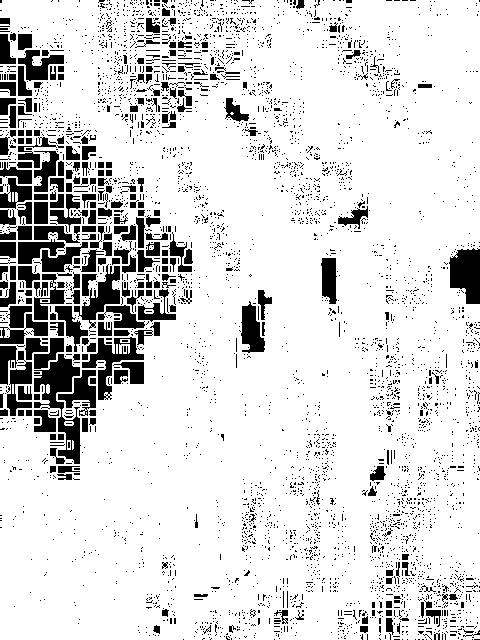
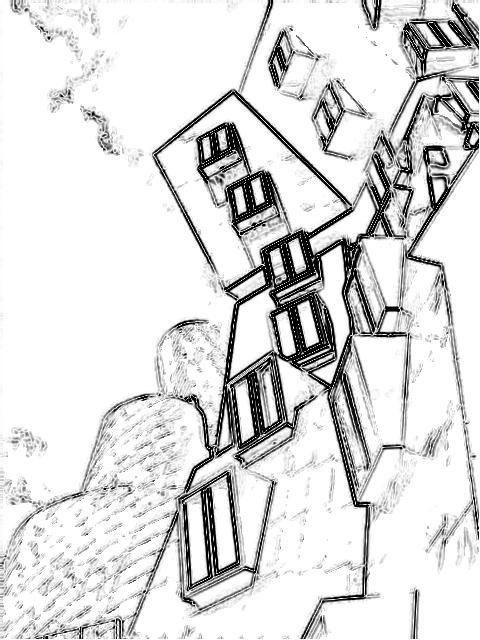
laplacian method after lots of experimentation

diff --git a/src/edge_detection_laplacian.py b/src/edge_detection_laplacian.py
@@ -1,26 +1,20 @@
 """
 Edge detection using the laplacian method.
-TODO(mikemeko): add a noise reduction system prior to edge detection.
 """
 
 __author__ = 'mikemeko@mit.edu (Michael Mekonnen)'
 
-from constants import EPSILON
+from constants import GAUSSIAN_FILTER
 from constants import LAPLACIAN_FILTER
 from image_two_D_signal_conversion import image_to_two_D_signal
 from image_two_D_signal_conversion import two_D_signal_to_image
 from os.path import join
+from scipy.stats import scoreatpercentile
+from two_D_signal_stats import var_signal
 from two_D_convolution import clipped_fft_convolve
-from two_D_signal import Two_D_Signal
+from util import invert
 from util import strip_dir
 from util import strip_file_name
-
-def compute_laplacian(signal):
-  """
-  Computes (approximately) the laplacian of the given |signal|.
-  """
-  assert isinstance(signal, Two_D_Signal), 'signal must be a Two_D_Signal'
-  return clipped_fft_convolve(signal, LAPLACIAN_FILTER)
 
 def detect_edges_laplacian(image_path):
   """
@@ -30,13 +24,29 @@ def detect_edges_laplacian(image_path):
   """
   print '\tcomputing 2D signal from image path'
   signal = image_to_two_D_signal(image_path)
+  print '\tblurring image'
+  blurred = clipped_fft_convolve(signal, GAUSSIAN_FILTER)
   print '\tcomputing laplacian'
-  laplacian = compute_laplacian(signal)
-  print '\tcomputing zero crossings'
-  zero_crossings = Two_D_Signal({key: 255 * (abs(laplacian[key]) < EPSILON) for
-      key in laplacian.values})
+  laplacian = clipped_fft_convolve(blurred, LAPLACIAN_FILTER)
+  print '\tcomputing abs'
+  abs_laplacian = abs(laplacian)
+  print '\tfinding cutoff abs: 95th percentile abs'
+  cutoff_abs = scoreatpercentile(abs_laplacian.non_zero_values(), 95)
+  print '\tscaling abs image by 255 / cutoff abs'
+  scaled = (255 / cutoff_abs) * abs_laplacian
+  print '\tinverting scaled image'
+  inverted = invert(scaled, 255)
+  print '\tcomputing variance'
+  var = var_signal(blurred, 2)
+  print '\tfinding cutoff variance'
+  cutoff_var = scoreatpercentile(var.non_zero_values(), 60)
+  print '\tupdating result image with cutoff variance'
+  for n1 in xrange(inverted.n1_min, inverted.n1_max + 1):
+    for n2 in xrange(inverted.n2_min, inverted.n2_max + 1):
+      if var[n1, n2] < cutoff_var:
+        inverted.set_value(n1, n2, 255)
   print '\tsaving result image'
   new_image_path = join(strip_dir(image_path), '%s_laplacian_edges.%s' % tuple(
       strip_file_name(image_path).split('.')))
-  two_D_signal_to_image(zero_crossings, new_image_path)
+  two_D_signal_to_image(inverted, new_image_path)
   print '\tdone'

diff --git a/src/util.py b/src/util.py
@@ -7,6 +7,57 @@ __author__ = 'mikemeko@mit.edu (Michael Mekonnen)'
 from os.path import isdir
 from os.path import isfile
 from os.path import split
+from two_D_signal import Two_D_Signal
+
+def padded_signal(signal, n1_pad, n2_pad):
+  """
+  Returns a Two_D_Signal by repeating the edge values of |signal| by |n1_pad|
+      values in the n1 directions and |n2_pad| in the n2 directions.
+  """
+  # input signal: X
+  #                ABC
+  # output signal: DXE
+  #                FGH
+  assert isinstance(signal, Two_D_Signal), 'signal must be a Two_D_Signal'
+  new_values = signal.values.copy()
+  for n1 in xrange(signal.n1_min, signal.n1_max + 1):
+    for n2_p in xrange(1, n2_pad + 1):
+      new_values[(n1, signal.n2_min - n2_p)] = signal[n1, signal.n2_min] # G
+      new_values[(n1, signal.n2_max + n2_p)] = signal[n1, signal.n2_max] # B
+  for n2 in xrange(signal.n2_min, signal.n2_max + 1):
+    for n1_p in xrange(1, n1_pad + 1):
+      new_values[(signal.n1_min - n1_p, n2)] = signal[signal.n1_min, n2] # D
+      new_values[(signal.n1_max + n1_p, n2)] = signal[signal.n1_max, n2] # E
+  for n1_p in xrange(1, n1_pad + 1):
+    for n2_p in xrange(1, n2_pad + 1):
+      new_values[(signal.n1_min - n1_p, signal.n2_min - n2_p)] = signal[
+          signal.n1_min, signal.n2_min] # F
+      new_values[(signal.n1_min - n1_p, signal.n2_max + n2_p)] = signal[
+          signal.n1_min, signal.n2_max] # H
+      new_values[(signal.n1_max + n1_p, signal.n2_min - n2_p)] = signal[
+          signal.n1_max, signal.n2_min] # A
+      new_values[(signal.n1_max + n1_p, signal.n2_max + n2_p)] = signal[
+          signal.n1_max, signal.n2_max] # C
+  return Two_D_Signal(new_values)
+
+def clipped_signal(signal, new_n1_min, new_n1_max, new_n2_min, new_n2_max):
+  """
+  Returns a clipped version of |signal|, clipped by the given parameters.
+  """
+  assert isinstance(signal, Two_D_Signal), 'signal must be a Two_D_Signal'
+  def key_in_bound(key):
+    n1, n2 = key
+    return new_n1_min <= n1 <= new_n1_max and new_n2_min <= n2 <= new_n2_max
+  return Two_D_Signal({key: value for key, value in signal.values.items() if
+      key_in_bound(key)})
+
+def invert(signal, MAX):
+  """
+  Returns the given |signal| inverted.
+  """
+  assert isinstance(signal, Two_D_Signal), 'signal must be a Two_D_Signal'
+  return Two_D_Signal({key: MAX - value for (key, value) in
+      signal.values.items()})
 
 def strip_file_name(path):
   """

diff --git a/src/two_D_convolution.py b/src/two_D_convolution.py
@@ -6,48 +6,8 @@ __author__ = 'mikemeko@mit.edu (Michael Mekonnen)'
 
 from scipy.signal import fftconvolve
 from two_D_signal import Two_D_Signal
-
-def padded_signal(signal, n1_pad, n2_pad):
-  """
-  Returns a Two_D_Signal by repeating the edge values of |signal| by |n1_pad|
-      values in the n1 directions and |n2_pad| in the n2 directions.
-  """
-  # input signal: X
-  #                ABC
-  # output signal: DXE
-  #                FGH
-  assert isinstance(signal, Two_D_Signal), 'signal must be a Two_D_Signal'
-  new_values = signal.values.copy()
-  for n1 in xrange(signal.n1_min, signal.n1_max + 1):
-    for n2_p in xrange(1, n2_pad + 1):
-      new_values[(n1, signal.n2_min - n2_p)] = signal[n1, signal.n2_min] # G
-      new_values[(n1, signal.n2_max + n2_p)] = signal[n1, signal.n2_max] # B
-  for n2 in xrange(signal.n2_min, signal.n2_max + 1):
-    for n1_p in xrange(1, n1_pad + 1):
-      new_values[(signal.n1_min - n1_p, n2)] = signal[signal.n1_min, n2] # D
-      new_values[(signal.n1_max + n1_p, n2)] = signal[signal.n1_max, n2] # E
-  for n1_p in xrange(1, n1_pad + 1):
-    for n2_p in xrange(1, n2_pad + 1):
-      new_values[(signal.n1_min - n1_p, signal.n2_min - n2_p)] = signal[
-          signal.n1_min, signal.n2_min] # F
-      new_values[(signal.n1_min - n1_p, signal.n2_max + n2_p)] = signal[
-          signal.n1_min, signal.n2_max] # H
-      new_values[(signal.n1_max + n1_p, signal.n2_min - n2_p)] = signal[
-          signal.n1_max, signal.n2_min] # A
-      new_values[(signal.n1_max + n1_p, signal.n2_max + n2_p)] = signal[
-          signal.n1_max, signal.n2_max] # C
-  return Two_D_Signal(new_values)
-
-def clipped_signal(signal, new_n1_min, new_n1_max, new_n2_min, new_n2_max):
-  """
-  Returns a clipped version of |signal|, clipped by the given parameters.
-  """
-  assert isinstance(signal, Two_D_Signal), 'signal must be a Two_D_Signal'
-  def key_in_bound(key):
-    n1, n2 = key
-    return new_n1_min <= n1 <= new_n1_max and new_n2_min <= n2 <= new_n2_max
-  return Two_D_Signal({key: value for key, value in signal.values.items() if
-      key_in_bound(key)})
+from util import clipped_signal
+from util import padded_signal
 
 def fft_convolve(f, g):
   """

diff --git a/src/edge_detection_gradient.py b/src/edge_detection_gradient.py
@@ -12,25 +12,9 @@ from math import sqrt
 from os.path import join
 from two_D_convolution import clipped_fft_convolve
 from two_D_signal import Two_D_Signal
+from util import invert
 from util import strip_dir
 from util import strip_file_name
-
-def compute_gradient(signal, h):
-  """
-  Computes (approximately) the gradient of the given |signal| using the given
-      filter |h|.
-  """
-  assert isinstance(signal, Two_D_Signal), 'signal must be a Two_D_Signal'
-  assert isinstance(h, Two_D_Signal), 'h must be a Two_D_Signal'
-  return clipped_fft_convolve(signal, h)
-
-def invert(signal, MAX):
-  """
-  Returns the given |signal| inverted.
-  """
-  assert isinstance(signal, Two_D_Signal), 'signal must be a Two_D_Signal'
-  return Two_D_Signal({key: MAX - value for (key, value) in
-      signal.values.items()})
 
 def detect_edges_gradient(image_path):
   """
@@ -41,9 +25,9 @@ def detect_edges_gradient(image_path):
   print '\tcomputing 2D signal from image path'
   signal = image_to_two_D_signal(image_path)
   print '\tcomputing horizontal gradient'
-  horizontal_gradient = compute_gradient(signal, HORIZONTAL_EDGE_FILTER)
+  horizontal_gradient = clipped_fft_convolve(signal, HORIZONTAL_EDGE_FILTER)
   print '\tcomputing vertical gradient'
-  vertical_gradient = compute_gradient(signal, VERTICAL_EDGE_FILTER)
+  vertical_gradient = clipped_fft_convolve(signal, VERTICAL_EDGE_FILTER)
   print '\tcomputing non-directional gradient'
   non_directional_gradient = Two_D_Signal({key: sqrt(horizontal_gradient[
       key] ** 2 + vertical_gradient[key] ** 2) for key in

diff --git a/src/two_D_signal_stats.py b/src/two_D_signal_stats.py
@@ -1,0 +1,37 @@
+"""
+Methods to collect statistics about 2D signals.
+"""
+
+__author__ = 'mikemeko@mit.edu (Michael Mekonnen)'
+
+from two_D_convolution import clipped_fft_convolve
+from two_D_signal import Two_D_Signal
+from util import padded_signal
+
+def mean_signal(signal, M):
+  """
+  Returns a Two_D_Signal representing the mean of |signal| at each point (n1,
+      n2), where the average is taken including all points from (n1 - |M|,
+      n2 - |M|) to (n1 + |M|, n2 + |M|).
+  """
+  assert isinstance(signal, Two_D_Signal), 'signal must be a Two_D_Signal'
+  mean_filter = Two_D_Signal({(n1, n2): 1. / (2 * M + 1) ** 2 for n1 in xrange(
+      -M, M + 1) for n2 in xrange(-M, M + 1)})
+  return clipped_fft_convolve(signal, mean_filter)
+
+def var_signal(signal, M):
+  """
+  Returns a Two_D_Signal representing the variance of |signal| at each point
+      (n1, n2), where the variance is taken including all points from
+      (n1 - |M|, n2 - |M|) to (n1 + |M|, n2 + |M|).
+  """
+  assert isinstance(signal, Two_D_Signal), 'signal must be a Two_D_Signal'
+  padded = padded_signal(signal, M, M)
+  mean = mean_signal(signal, M)
+  var_values = {}
+  for n1 in xrange(signal.n1_min, signal.n1_max + 1):
+    for n2 in xrange(signal.n2_min, signal.n2_max + 1):
+      var_values[(n1, n2)] = sum((padded[i, j] - mean[i, j]) ** 2 for i in
+          xrange(n1 - M, n1 + M + 1) for j in xrange(n2 - M, n2 + M + 1)) / (
+          2 * M + 1.) ** 2
+  return Two_D_Signal(var_values)

diff --git a/src/constants.py b/src/constants.py
@@ -4,6 +4,7 @@ Constants.
 
 __author__ = 'mikemeko@mit.edu (Michael Mekonnen)'
 
+from numpy import array
 from two_D_signal import Two_D_Signal
 
 # filters for gradient based method
@@ -16,5 +17,10 @@ VERTICAL_EDGE_FILTER = Two_D_Signal({(-1, -1): -1, (-1, 0): -2, (-1, 1): -1,
 LAPLACIAN_FILTER = Two_D_Signal({(0, 0): -8, (0, 1): 1, (0, -1): 1, (1, 0): 1,
     (-1, 0): 1, (-1, -1): 1, (-1, 1): 1, (1, -1): 1, (1, 1): 1})
 
-# small value to check for zero crossings
-EPSILON = 10e-8
+# gaussian blurring filter
+GAUSSIAN_FILTER = Two_D_Signal.from_two_D_array(array([
+    [1, 4, 7, 4, 1],
+    [4, 16, 26, 16, 4],
+    [7, 26, 41, 26, 7],
+    [4, 16, 26, 16, 4],
+    [1, 4, 7, 4, 1]]) / 273., -2, -2)

diff --git a/src/two_D_signal.py b/src/two_D_signal.py
@@ -24,6 +24,13 @@ class Two_D_Signal:
     self.n2_min = min(key[1] for key in values.keys())
     self.n2_max = max(key[1] for key in values.keys())
     self.height = self.n2_max - self.n2_min + 1
+  def set_value(self, n1, n2, val):
+    """
+    Sets the value for the point (|n1|, |n2|) to be |val|.
+    """
+    assert self.n1_min <= n1 <= self.n1_max, 'n1=%d out of range' % n1
+    assert self.n2_min <= n2 <= self.n2_max, 'n2=%d out of range' % n2
+    self.values[(n1, n2)] = val
   def bounds(self):
     """
     Returns the bounds of this signal in the form (n1_min, n1_max, n2_min,
